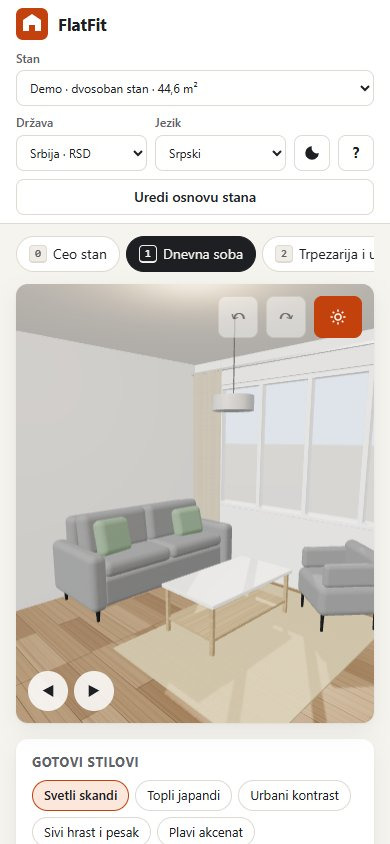
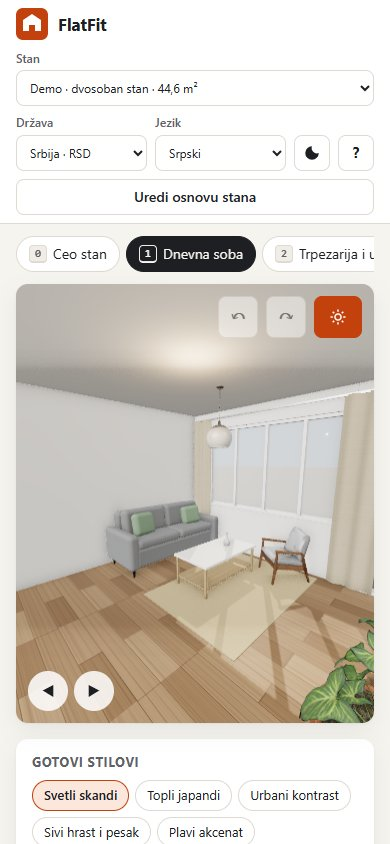
Rooms on a phone are seen across, not through a slit
Inside a room the camera kept a fixed 62° vertical angle, which on a
portrait phone canvas is only about 52° across: the bedroom showed the foot
of the bed and little else. The vertical angle now widens until the room
is seen across at least 76°, up to 90°, and follows the canvas when the
phone turns; wide screens keep 62° exactly as before, and zoom is kept
relative to it. New phone screenshot.

Changed region(s): [[0.0308, 0.3389, 0.9846, 0.8626]]

diff --git a/src/three/viewer.ts b/src/three/viewer.ts
@@ -3,6 +3,7 @@ import { OrbitControls } from 'three/addons/controls/OrbitControls.js';
 import { RoomEnvironment } from 'three/addons/environments/RoomEnvironment.js';
 import type { EffectComposer } from 'three/addons/postprocessing/EffectComposer.js';
 import type { SlotId, View } from '../types';
+import { interiorFov } from './camera';
 
 export interface Label {
   text: string;
@@ -313,7 +314,8 @@ export class Viewer {
       const d = tt.clone().sub(to);
       this.look.yaw = Math.atan2(d.x, d.z);
       this.look.pitch = Math.atan2(d.y, Math.hypot(d.x, d.z));
-      this.camera.fov = 62;
+      this.fovScale = 1;
+      this.camera.fov = interiorFov(this.camera.aspect);
     } else this.camera.fov = 45;
     this.camera.updateProjectionMatrix();
     if (instant || matchMedia('(prefers-reduced-motion: reduce)').matches) {
@@ -374,7 +376,9 @@ export class Viewer {
   }
   zoom(f: number) {
     if (this.interior) {
-      this.camera.fov = Math.max(35, Math.min(90, this.camera.fov * f));
+      const base = interiorFov(this.camera.aspect);
+      this.fovScale = Math.max(35 / base, Math.min(90 / base, this.fovScale * f));
+      this.camera.fov = base * this.fovScale;
       this.camera.updateProjectionMatrix();
     } else {
       const d = this.camera.position.clone().sub(this.controls.target).multiplyScalar(f);
@@ -667,6 +671,8 @@ export class Viewer {
     }
   }
   private size = { w: 0, h: 0 };
+  /** zoom inside a room, relative to the field of view that suits the screen's shape */
+  private fovScale = 1;
 
   resize() {
     const r = this.host.getBoundingClientRect();
@@ -675,6 +681,8 @@ export class Viewer {
     this.renderer.setSize(r.width, r.height, false);
     this.composer?.setSize(r.width, r.height);
     this.camera.aspect = r.width / r.height;
+    // turning a phone or resizing the window: inside a room the angle follows the new shape, keeping the zoom
+    if (this.interior) this.camera.fov = interiorFov(this.camera.aspect) * this.fovScale;
     this.camera.updateProjectionMatrix();
     this.dirty = true;
   }

diff --git a/src/three/camera.ts b/src/three/camera.ts
@@ -1,0 +1,22 @@
+/** Vertical field of view inside a room on a wide screen, in degrees. */
+export const INTERIOR_FOV = 62;
+/** The least horizontal field of view inside a room, so a tall phone screen still shows the room and not one piece. */
+export const INTERIOR_MIN_H = 76;
+const MAX_FOV = 90;
+
+const rad = (d: number) => (d * Math.PI) / 180;
+const deg = (r: number) => (r * 180) / Math.PI;
+
+/**
+ * three.js cameras keep the vertical angle fixed, so a portrait canvas sees a narrow slice of the room.
+ * Widen the vertical angle until the horizontal one reaches INTERIOR_MIN_H, up to a limit past which the
+ * edges of the picture stretch too much.
+ */
+export function interiorFov(aspect: number) {
+  if (!(aspect > 0)) return INTERIOR_FOV;
+  const v = deg(2 * Math.atan(Math.tan(rad(INTERIOR_MIN_H) / 2) / aspect));
+  return Math.min(MAX_FOV, Math.max(INTERIOR_FOV, v));
+}
+
+/** Horizontal field of view for a vertical one, in degrees. */
+export const horizontalFov = (vfov: number, aspect: number) => deg(2 * Math.atan(Math.tan(rad(vfov) / 2) * aspect));

diff --git a/tests/unit/camera.test.ts b/tests/unit/camera.test.ts
@@ -1,0 +1,22 @@
+import { describe, expect, it } from 'vitest';
+import { INTERIOR_FOV, INTERIOR_MIN_H, horizontalFov, interiorFov } from '../../src/three/camera';
+
+describe('field of view inside a room', () => {
+  it('stays as it was on a wide screen', () => {
+    expect(interiorFov(797 / 531)).toBe(INTERIOR_FOV);
+    expect(interiorFov(16 / 9)).toBe(INTERIOR_FOV);
+  });
+  it('widens on a phone so the room is seen across at least the minimum angle', () => {
+    const a = 359 / 440,
+      v = interiorFov(a);
+    expect(v).toBeGreaterThan(INTERIOR_FOV);
+    expect(horizontalFov(v, a)).toBeCloseTo(INTERIOR_MIN_H, 5);
+    // on the old fixed angle a phone saw only about 52° across
+    expect(horizontalFov(INTERIOR_FOV, a)).toBeLessThan(55);
+  });
+  it('stops widening where the picture would stretch, and survives a zero-size canvas', () => {
+    expect(interiorFov(0.3)).toBe(90);
+    expect(interiorFov(0)).toBe(INTERIOR_FOV);
+    expect(interiorFov(Number.NaN)).toBe(INTERIOR_FOV);
+  });
+});

diff --git a/README.md b/README.md
@@ -22,7 +22,7 @@
 | **Stack** | TypeScript (strict), three.js, three-gpu-pathtracer, Intel OIDN on WebGPU, Gemini or Claude API (vision + structured output, optional, the user's own key), Vite, Vitest, Playwright + axe-core, GitHub Actions, GitHub Pages |
 | **Size** | ~10,000 lines of TypeScript (formatted by Biome), no UI framework ([why](docs/adr/0001-no-ui-framework.md)); domain logic has no DOM or three.js imports |
 | **Data** | 5 markets, ~590 real products; every price re-checked daily by a GitHub Action and committed to git ([why](docs/adr/0002-static-site-git-scraped-prices.md)); IKEA prices checked live from the browser on request |
-| **Quality** | Biome lint and format in CI, 242 unit tests (including a geometry snapshot of the 3D scene, built in Node without a GPU), 53 end-to-end runs (17 persona journeys, an accessibility scan of every dialog, a visual check of the 3D view, 10 URL/device combinations in Chromium, Firefox and WebKit, a price-refresh test), accessibility scan, Lighthouse desktop 94–96 / mobile 68–70, CodeQL, Dependabot |
+| **Quality** | Biome lint and format in CI, 245 unit tests (including a geometry snapshot of the 3D scene, built in Node without a GPU), 53 end-to-end runs (17 persona journeys, an accessibility scan of every dialog, a visual check of the 3D view, 10 URL/device combinations in Chromium, Firefox and WebKit, a price-refresh test), accessibility scan, Lighthouse desktop 94–96 / mobile 68–70, CodeQL, Dependabot |
 | **Hard parts** | GPU driver resets during path tracing, a cold-cache shader stall found with a CPU profile, collision checks on every pointer move, a budget solved as a multiple-choice knapsack, honest labelling of prices that cannot be checked automatically |
 
 I built FlatFit while furnishing a small flat I rent out: I wanted to see what a cheap but nice setup looks like *with the actual products I can buy*, know the total before I go shopping, and be sure the sofa fits the wall. It grew into a general tool: draw any apartment, pick a country, and it proposes a furnished layout from that market's real catalogue. The demo is that flat, 44.6 m²: furnished from about €2,450 at Serbian prices (November 2026), every piece checked to fit.
@@ -143,7 +143,7 @@ Adding a country: a catalogue JSON in `src/data/catalogs/`, an entry in `src/dat
 
 | Layer | Tool | What |
 |---|---|---|
-| Unit (242) | Vitest | the AI stylist (only known fields and values are accepted, every product is from the catalogue and fits, the budget is kept, wishes are kept where the budget allows), L- and U-shaped rooms, wall derivation, demo areas, quantities, promotions, dependencies, fit checks, layout inside rooms, generated proposals fit for 5 markets × 3 flats, moving pieces (rigid groups, snapping, turning, collisions with furniture, walls, doors and radiators), TV socket and radiators in the planner, share links, catalogue schema, sale dates and estimates, live price refresh (stubbed network), budget solver, delivery rules, measuring sheet, translation key parity and an ijekavian check for Bosnian and Croatian, share links, undo history, the listing sheet, and reading a plan picture (cleaning the AI's answer, lining up walls, placing the picture, both providers' requests, answers and errors such as a used-up free quota) |
+| Unit (245) | Vitest | the AI stylist (only known fields and values are accepted, every product is from the catalogue and fits, the budget is kept, wishes are kept where the budget allows), L- and U-shaped rooms, wall derivation, demo areas, quantities, promotions, dependencies, fit checks, layout inside rooms, generated proposals fit for 5 markets × 3 flats, moving pieces (rigid groups, snapping, turning, collisions with furniture, walls, doors and radiators), TV socket and radiators in the planner, share links, catalogue schema, sale dates and estimates, live price refresh (stubbed network), budget solver, delivery rules, measuring sheet, translation key parity and an ijekavian check for Bosnian and Croatian, share links, undo history, the listing sheet, and reading a plan picture (cleaning the AI's answer, lining up walls, placing the picture, both providers' requests, answers and errors such as a used-up free quota) |
 | End to end | Playwright | persona journeys and a URL matrix, see below |
 | Accessibility | axe-core | WCAG 2 A/AA, no serious or critical violations |
 | Visual | Playwright | the 3D view of the demo flat from three cameras, each reduced to a 32 × 20 grid of average colours and compared with the stored grid (`tests/e2e/visual.spec.ts`): the same machine gives the identical grid, small driver differences pass, and the test also checks that a living room without its sofa fails it |
